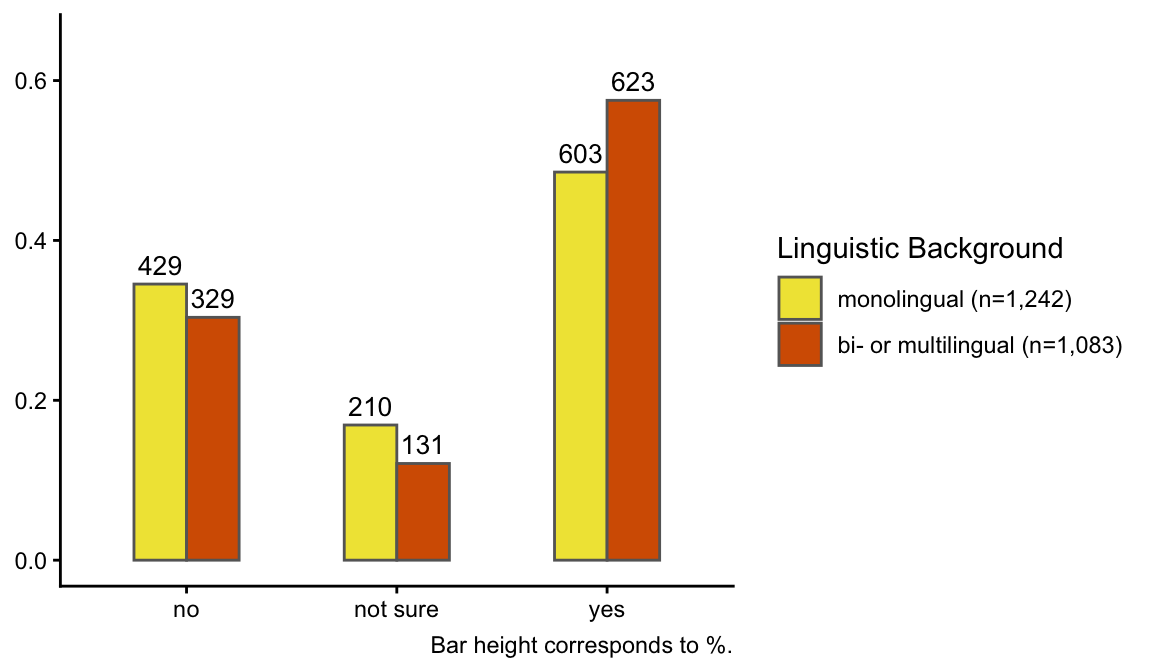
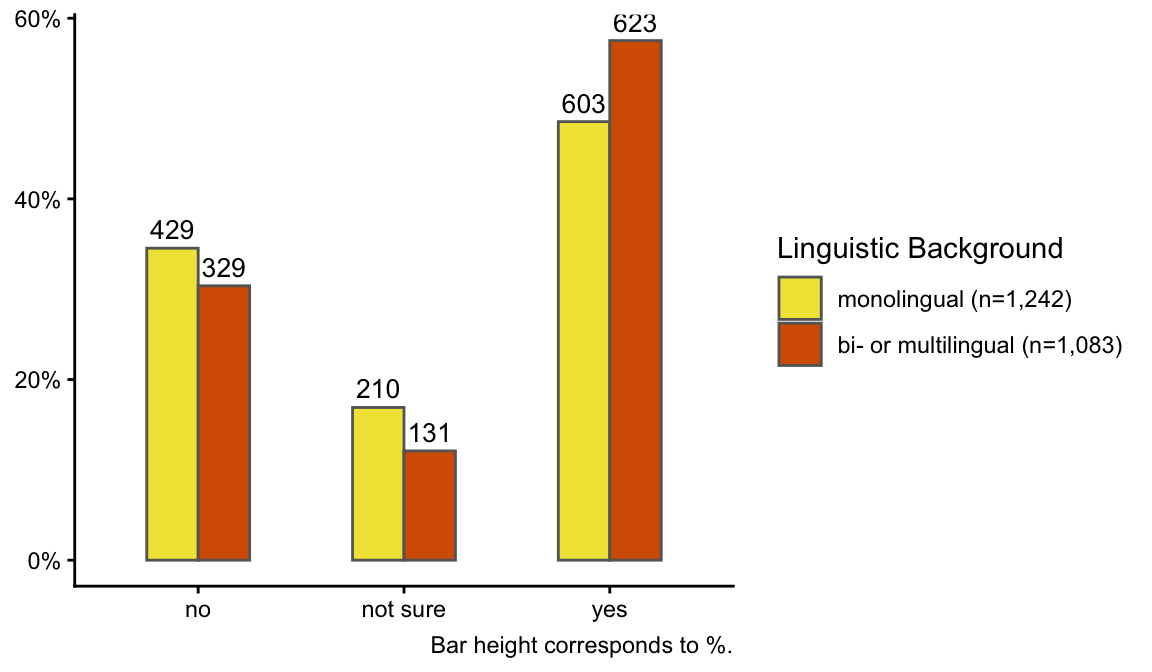
scales fig 5

diff --git a/index.html b/index.html
@@ -286,23 +286,23 @@ To Stefan
 <p>I have selected the following variables by short names, hoping that these are the correct ones to show in Figure 2.</p>
 <div class="cell">
 <div class="cell-output-display">
-<div id="pybbkjrvwx" style="padding-left:0px;padding-right:0px;padding-top:10px;padding-bottom:10px;overflow-x:auto;overflow-y:auto;width:auto;height:auto;">
-<style>#pybbkjrvwx table {
+<div id="whhauertcx" style="padding-left:0px;padding-right:0px;padding-top:10px;padding-bottom:10px;overflow-x:auto;overflow-y:auto;width:auto;height:auto;">
+<style>#whhauertcx table {
   font-family: system-ui, 'Segoe UI', Roboto, Helvetica, Arial, sans-serif, 'Apple Color Emoji', 'Segoe UI Emoji', 'Segoe UI Symbol', 'Noto Color Emoji';
   -webkit-font-smoothing: antialiased;
   -moz-osx-font-smoothing: grayscale;
 }
 
-#pybbkjrvwx thead, #pybbkjrvwx tbody, #pybbkjrvwx tfoot, #pybbkjrvwx tr, #pybbkjrvwx td, #pybbkjrvwx th {
+#whhauertcx thead, #whhauertcx tbody, #whhauertcx tfoot, #whhauertcx tr, #whhauertcx td, #whhauertcx th {
   border-style: none;
 }
 
-#pybbkjrvwx p {
+#whhauertcx p {
   margin: 0;
   padding: 0;
 }
 
-#pybbkjrvwx .gt_table {
+#whhauertcx .gt_table {
   display: table;
   border-collapse: collapse;
   line-height: normal;
@@ -328,12 +328,12 @@ To Stefan
   border-left-color: #D3D3D3;
 }
 
-#pybbkjrvwx .gt_caption {
+#whhauertcx .gt_caption {
   padding-top: 4px;
   padding-bottom: 4px;
 }
 
-#pybbkjrvwx .gt_title {
+#whhauertcx .gt_title {
   color: #333333;
   font-size: 125%;
   font-weight: initial;
@@ -345,7 +345,7 @@ To Stefan
   border-bottom-width: 0;
 }
 
-#pybbkjrvwx .gt_subtitle {
+#whhauertcx .gt_subtitle {
   color: #333333;
   font-size: 85%;
   font-weight: initial;
@@ -357,7 +357,7 @@ To Stefan
   border-top-width: 0;
 }
 
-#pybbkjrvwx .gt_heading {
+#whhauertcx .gt_heading {
   background-color: #FFFFFF;
   text-align: center;
   border-bottom-color: #FFFFFF;
@@ -369,13 +369,13 @@ To Stefan
   border-right-color: #D3D3D3;
 }
 
-#pybbkjrvwx .gt_bottom_border {
+#whhauertcx .gt_bottom_border {
   border-bottom-style: solid;
   border-bottom-width: 2px;
   border-bottom-color: #D3D3D3;
 }
 
-#pybbkjrvwx .gt_col_headings {
+#whhauertcx .gt_col_headings {
   border-top-style: solid;
   border-top-width: 2px;
   border-top-color: #D3D3D3;
@@ -390,7 +390,7 @@ To Stefan
   border-right-color: #D3D3D3;
 }
 
-#pybbkjrvwx .gt_col_heading {
+#whhauertcx .gt_col_heading {
   color: #333333;
   background-color: #FFFFFF;
   font-size: 100%;
@@ -410,7 +410,7 @@ To Stefan
   overflow-x: hidden;
 }
 
-#pybbkjrvwx .gt_column_spanner_outer {
+#whhauertcx .gt_column_spanner_outer {
   color: #333333;
   background-color: #FFFFFF;
   font-size: 100%;
@@ -422,15 +422,15 @@ To Stefan
   padding-right: 4px;
 }
 
-#pybbkjrvwx .gt_column_spanner_outer:first-child {
+#whhauertcx .gt_column_spanner_outer:first-child {
   padding-left: 0;
 }
 
-#pybbkjrvwx .gt_column_spanner_outer:last-child {
+#whhauertcx .gt_column_spanner_outer:last-child {
   padding-right: 0;
 }
 
-#pybbkjrvwx .gt_column_spanner {
+#whhauertcx .gt_column_spanner {
   border-bottom-style: solid;
   border-bottom-width: 2px;
   border-bottom-color: #D3D3D3;
@@ -442,11 +442,11 @@ To Stefan
   width: 100%;
 }
 
-#pybbkjrvwx .gt_spanner_row {
+#whhauertcx .gt_spanner_row {
   border-bottom-style: hidden;
 }
 
-#pybbkjrvwx .gt_group_heading {
+#whhauertcx .gt_group_heading {
   padding-top: 8px;
   padding-bottom: 8px;
   padding-left: 5px;
@@ -472,7 +472,7 @@ To Stefan
   text-align: left;
 }
 
-#pybbkjrvwx .gt_empty_group_heading {
+#whhauertcx .gt_empty_group_heading {
   padding: 0.5px;
   color: #333333;
   background-color: #FFFFFF;
@@ -487,15 +487,15 @@ To Stefan
   vertical-align: middle;
 }
 
-#pybbkjrvwx .gt_from_md > :first-child {
+#whhauertcx .gt_from_md > :first-child {
   margin-top: 0;
 }
 
-#pybbkjrvwx .gt_from_md > :last-child {
+#whhauertcx .gt_from_md > :last-child {
   margin-bottom: 0;
 }
 
-#pybbkjrvwx .gt_row {
+#whhauertcx .gt_row {
   padding-top: 8px;
   padding-bottom: 8px;
   padding-left: 5px;
@@ -514,7 +514,7 @@ To Stefan
   overflow-x: hidden;
 }
 
-#pybbkjrvwx .gt_stub {
+#whhauertcx .gt_stub {
   color: #333333;
   background-color: #FFFFFF;
   font-size: 100%;
@@ -527,7 +527,7 @@ To Stefan
   padding-right: 5px;
 }
 
-#pybbkjrvwx .gt_stub_row_group {
+#whhauertcx .gt_stub_row_group {
   color: #333333;
   background-color: #FFFFFF;
   font-size: 100%;
@@ -541,15 +541,15 @@ To Stefan
   vertical-align: top;
 }
 
-#pybbkjrvwx .gt_row_group_first td {
+#whhauertcx .gt_row_group_first td {
   border-top-width: 2px;
 }
 
-#pybbkjrvwx .gt_row_group_first th {
+#whhauertcx .gt_row_group_first th {
   border-top-width: 2px;
 }
 
-#pybbkjrvwx .gt_summary_row {
+#whhauertcx .gt_summary_row {
   color: #333333;
   background-color: #FFFFFF;
   text-transform: inherit;
@@ -559,16 +559,16 @@ To Stefan
   padding-right: 5px;
 }
 
-#pybbkjrvwx .gt_first_summary_row {
+#whhauertcx .gt_first_summary_row {
   border-top-style: solid;
   border-top-color: #D3D3D3;
 }
 
-#pybbkjrvwx .gt_first_summary_row.thick {
+#whhauertcx .gt_first_summary_row.thick {
   border-top-width: 2px;
 }
 
-#pybbkjrvwx .gt_last_summary_row {
+#whhauertcx .gt_last_summary_row {
   padding-top: 8px;
   padding-bottom: 8px;
   padding-left: 5px;
@@ -578,7 +578,7 @@ To Stefan
   border-bottom-color: #D3D3D3;
 }
 
-#pybbkjrvwx .gt_grand_summary_row {
+#whhauertcx .gt_grand_summary_row {
   color: #333333;
   background-color: #FFFFFF;
   text-transform: inherit;
@@ -588,7 +588,7 @@ To Stefan
   padding-right: 5px;
 }
 
-#pybbkjrvwx .gt_first_grand_summary_row {
+#whhauertcx .gt_first_grand_summary_row {
   padding-top: 8px;
   padding-bottom: 8px;
   padding-left: 5px;
@@ -598,7 +598,7 @@ To Stefan
   border-top-color: #D3D3D3;
 }
 
-#pybbkjrvwx .gt_last_grand_summary_row_top {
+#whhauertcx .gt_last_grand_summary_row_top {
   padding-top: 8px;
   padding-bottom: 8px;
   padding-left: 5px;
@@ -608,11 +608,11 @@ To Stefan
   border-bottom-color: #D3D3D3;
 }
 
-#pybbkjrvwx .gt_striped {
+#whhauertcx .gt_striped {
   background-color: rgba(128, 128, 128, 0.05);
 }
 
-#pybbkjrvwx .gt_table_body {
+#whhauertcx .gt_table_body {
   border-top-style: solid;
   border-top-width: 2px;
   border-top-color: #D3D3D3;
@@ -621,7 +621,7 @@ To Stefan
   border-bottom-color: #D3D3D3;
 }
 
-#pybbkjrvwx .gt_footnotes {
+#whhauertcx .gt_footnotes {
   color: #333333;
   background-color: #FFFFFF;
   border-bottom-style: none;
@@ -635,7 +635,7 @@ To Stefan
   border-right-color: #D3D3D3;
 }
 
-#pybbkjrvwx .gt_footnote {
+#whhauertcx .gt_footnote {
   margin: 0px;
   font-size: 90%;
   padding-top: 4px;
@@ -644,7 +644,7 @@ To Stefan
   padding-right: 5px;
 }
 
-#pybbkjrvwx .gt_sourcenotes {
+#whhauertcx .gt_sourcenotes {
   color: #333333;
   background-color: #FFFFFF;
   border-bottom-style: none;
@@ -658,7 +658,7 @@ To Stefan
   border-right-color: #D3D3D3;
 }
 
-#pybbkjrvwx .gt_sourcenote {
+#whhauertcx .gt_sourcenote {
   font-size: 90%;
   padding-top: 4px;
   padding-bottom: 4px;
@@ -666,72 +666,72 @@ To Stefan
   padding-right: 5px;
 }
 
-#pybbkjrvwx .gt_left {
+#whhauertcx .gt_left {
   text-align: left;
 }
 
-#pybbkjrvwx .gt_center {
+#whhauertcx .gt_center {
   text-align: center;
 }
 
-#pybbkjrvwx .gt_right {
+#whhauertcx .gt_right {
   text-align: right;
   font-variant-numeric: tabular-nums;
 }
 
-#pybbkjrvwx .gt_font_normal {
+#whhauertcx .gt_font_normal {
   font-weight: normal;
 }
 
-#pybbkjrvwx .gt_font_bold {
+#whhauertcx .gt_font_bold {
   font-weight: bold;
 }
 
-#pybbkjrvwx .gt_font_italic {
+#whhauertcx .gt_font_italic {
   font-style: italic;
 }
 
-#pybbkjrvwx .gt_super {
+#whhauertcx .gt_super {
   font-size: 65%;
 }
 
-#pybbkjrvwx .gt_footnote_marks {
+#whhauertcx .gt_footnote_marks {
   font-size: 75%;
   vertical-align: 0.4em;
   position: initial;
 }
 
-#pybbkjrvwx .gt_asterisk {
+#whhauertcx .gt_asterisk {
   font-size: 100%;
   vertical-align: 0;
 }
 
-#pybbkjrvwx .gt_indent_1 {
+#whhauertcx .gt_indent_1 {
   text-indent: 5px;
 }
 
-#pybbkjrvwx .gt_indent_2 {
+#whhauertcx .gt_indent_2 {
   text-indent: 10px;
 }
 
-#pybbkjrvwx .gt_indent_3 {
+#whhauertcx .gt_indent_3 {
   text-indent: 15px;
 }
 
-#pybbkjrvwx .gt_indent_4 {
+#whhauertcx .gt_indent_4 {
   text-indent: 20px;
 }
 
-#pybbkjrvwx .gt_indent_5 {
+#whhauertcx .gt_indent_5 {
   text-indent: 25px;
 }
 
-#pybbkjrvwx .katex-display {
+#whhauertcx .katex-display {
   display: inline-flex !important;
   margin-bottom: 0.75em !important;
 }
 
-#pybbkjrvwx div.Reactable > div.rt-table > div.rt-thead > div.rt-tr.rt-tr-group-header > div.rt-th-group:after {
+#whhauertcx div.Reactable > div.rt-table > div.rt-thead > div.rt-tr.rt-tr-group-header > div.rt-th-group:after {
   height: 0px !important;
 }
 </style>
@@ -850,10 +850,6 @@ Figure&nbsp;3: Have you heard of either “Standard Canadian English” or “Ca
 <p>The Americans (US) in our sample, all of whom likely with some ties to Canada as an artefact of our data collection method (snowball method), are more familiar with the term than Nova Scotians (NS) and Prince Edward Islanders (PE). The assumption is that if speakers are familiar with Standard Canadian English they are more likely to comprehend the social relevance of the variety as a marker of identity. Such awareness would therefore be strongest in New Brunswick (which sets it apart from the other Atlantic Provinces NS, PE and NL), followed by Ontario, then BC and Alberta.</p>
 <p>Figure 5 shows exposure to “Standard Canadian English” with respondents’ status of multilingualism. Monolingual speakers, socialized in Canada, are significantly less likely to “have heard” of “Standard Canadian English” or “Canadian Standard English”. Monolinguals are more likely to have a “default” of “English unspecified” as a variety and need to learn to appreciate the special characteristics of Standard Canadian English.</p>
 <div class="cell">
-<div class="cell-output cell-output-stderr">
-<pre><code>Scale for y is already present.
-Adding another scale for y, which will replace the existing scale.</code></pre>
-</div>
 <div class="cell-output-display">
 <div id="fig-stheard-by-multiling" class="quarto-float quarto-figure quarto-figure-center anchored">
 <figure class="quarto-float quarto-float-fig figure">
@@ -868,7 +864,7 @@ Figure&nbsp;4: Responses to “Have you heard of StCanE?” by linguistic backgr
 </div>
 </div>
 <div class="cell">
-<div class="sourceCode cell-code" id="cb5"><pre class="sourceCode r code-with-copy"><code class="sourceCode r"><span id="cb5-1"><a href="#cb5-1" aria-hidden="true" tabindex="-1"></a><span class="fu">ggsave</span>(<span class="st">"fig/fig-5.png"</span>, <span class="at">width =</span> <span class="dv">6</span>, <span class="at">height =</span> <span class="fl">3.5</span>, <span class="at">dpi =</span> <span class="dv">600</span>)</span></code><button title="Copy to Clipboard" class="code-copy-button"><i class="bi"></i></button></pre></div>
+<div class="sourceCode cell-code" id="cb4"><pre class="sourceCode r code-with-copy"><code class="sourceCode r"><span id="cb4-1"><a href="#cb4-1" aria-hidden="true" tabindex="-1"></a><span class="fu">ggsave</span>(<span class="st">"fig/fig-5.png"</span>, <span class="at">width =</span> <span class="dv">6</span>, <span class="at">height =</span> <span class="fl">3.2</span>, <span class="at">dpi =</span> <span class="dv">600</span>)</span></code><button title="Copy to Clipboard" class="code-copy-button"><i class="bi"></i></button></pre></div>
 </div>
 <div class="callout callout-style-simple callout-tip">
 <div class="callout-body d-flex">
